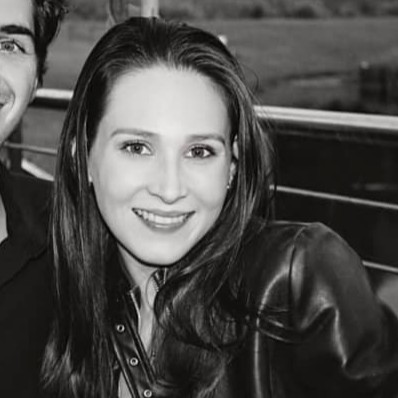
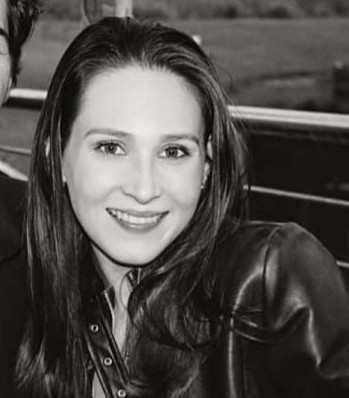
responsive

diff --git a/src/templates/timeline.js b/src/templates/timeline.js
@@ -5,6 +5,7 @@ export default class Timeline extends React.PureComponent {
   render() {
       return <div style={{display: "flex", justifyContent: "center"}}>
         <div class="container">
+          <h1 style={{marginBottom: '30px'}}>Education</h1>
           <div class="timeline">
             <div class="timeline-container">
               <div class="timeline-icon timeline-color">
@@ -12,22 +13,33 @@ export default class Timeline extends React.PureComponent {
               <div class="timeline-body">
                   <span class="badge timeline-color"><strong>BScHons Applied Mathematics (Cum Laude) 2020 </strong></span>
                   <h4>Stellenbosch University</h4>
-                  <p>My honours thesis was a study about techniques used for iris segmentation using Digital Image Processing.</p>
+                  <p>
+                    My honours thesis was a study about different techniques used for iris segmentation using Digital Image Processing.
+                    Various techniques were studied and compared in order to find the best algorithm for this problem.
+                    The different methods explored were Hough transform, Region Growing segmentation and Region Growing segmentation.
+                    Before one could apply these different segmentation algorithms, various preprocessing techniques were explored to
+                    ensure the most accurate result, which included Gaussian blur, edge detection methods and row and column sum operations.
+                  </p>
               </div>
             </div>
             <div class="timeline-container">
               <div class="timeline-icon timeline-color">
-                <i class="far fa-grin-hearts"></i>
               </div>
               <div class="timeline-body">
                 <span class="badge timeline-color"><strong>BSc Mathematical Sciences 2017-2019</strong></span>
                 <h4>Stellenbosch University</h4>
-                <p>BSc Mathematical Sciences in Applied Mathematics and Operations Research</p>
+                <p>
+                  I completed a Bachelor of Science in Mathematical Sciences, with a specialization in Applied Mathematics and Operations Research.
+                  This degree program provided me with a comprehensive education in mathematical theories, models, and techniques, and equipped me
+                  with the necessary skills to analyze and solve real-world problems in various industries. I took courses in areas such as
+                  linear algebra, calculus, numerical analysis, optimization techniques, probability and statistics.
+                  These courses helped me develop a solid foundation in mathematical concepts and methods, and provided me with hands-on
+                  experience in using mathematical tools to solve practical problems.
+                </p>
               </div>
             </div>
             <div class="timeline-container ">
               <div class="timeline-icon timeline-color">
-                <i class="far fa-grin-tears"></i>
               </div>
               <div class="timeline-body">
                 <span class="badge timeline-color"><strong>Matric 2016</strong></span>

diff --git a/src/templates/work.js b/src/templates/work.js
@@ -4,6 +4,7 @@ import "./work.css"
 export default class WorkExperience extends React.PureComponent {
   render() {
       return <div class="work">
+        <h1 class="work-heading">Work Experience</h1>
         <table>
           <tr>
             <td>04/2021-present</td>
@@ -16,7 +17,11 @@ export default class WorkExperience extends React.PureComponent {
               </ul>
 
               <div>
-                <span class="work-badge">Ruby</span><span class="work-badge">React Native</span><span class="work-badge">Python</span><span class="work-badge">SQL</span>
+                <span class="work-badge">Ruby</span>
+                <span class="work-badge">React Native</span>
+                <span class="work-badge">Python</span>
+                <span class="work-badge">SQL</span>
+                <span class="work-badge">Jekyll</span>
               </div>
             </td>
           </tr>
@@ -26,8 +31,9 @@ export default class WorkExperience extends React.PureComponent {
             <td><strong>Teacher’s Assistant</strong> <br></br>Stellenbosch University</td>
             <td>
               <p>
-                I was a teacher’s assistant for a second year Applied Mathematics module. This involved helping students understand
-                topics taught in the course and assisting in marking course material.
+              Assisted in teaching a second-year Applied Mathematics module. Helped students understand course
+              concepts and topics, through one-on-one support during study sessions. Assisted in marking coursework
+              and providing feedback to students, promoting their learning and development
               </p>
                 <span class="work-badge">Matlab</span>
             </td>

diff --git a/src/templates/aboveFold.js b/src/templates/aboveFold.js
@@ -6,19 +6,22 @@ export default class AboveFold extends React.PureComponent {
   render() {
       return <div class="aboveFold">
         <div class= "foldCol">
-          <h1 style={{marginBottom: "3%"}}>
+          <h1>
             Hi! I"m <span className= "primary">Jenna</span>,<br/>Front-End Web Developer
           </h1>
           <p>
             Graduated Cum Laude in <span className= "primary"><strong>Applied Mathematics</strong></span>.
-            I love all things, numbers, front-end development, computer vision and more!
+            I love all things, mathematics, front-end development, computer vision and more! I am a highly motivated and hardworking front-end
+            software developer with a strong background in applied mathematics. My passion for coding and problem-solving combined with my
+            mathematical knowledge allows me to approach software development in a unique and creative way. I am always looking for
+            new challenges to expand my skills and knowledge.
           </p>
           <div>
           <a href='https://github.com/jennaleeshearer' target={'_blank'} rel="noreferrer" class="links"><i class="fab fa-github"></i></a>
           <a href='https://www.linkedin.com/in/jenna-lee-shearer-7aba841b3/' target={'_blank'} rel="noreferrer" class="links"><i class="fab fa-linkedin"></i></a>
         </div>
         </div>
-        <div style={{width: "50%"}}>
+        <div>
           <img src={me} class="profilePic"/>
         </div>
       </div>

diff --git a/src/templates/work.css b/src/templates/work.css
@@ -4,26 +4,43 @@
   justify-content: center;
   margin-bottom: 30px;
   background-color: #efefef;
+  flex-direction: column;
+}
+
+.work-heading {
+  margin: 30px;
 }
 
 .work table {
   text-align: left;
+  margin-bottom: 30px;
 }
 
 .work  td {
-  padding: 30px;
+  padding: 10px;
   max-width: 700px;
 }
 
-.work ul, p {
+.work p {
   padding-bottom: 20px;
 }
 
 .work-badge {
   padding: 8px;
   margin-right: 10px;
+  margin-bottom: 0;
   border-radius: 5px;
   color: white;
   background: #3a3b49;
-  margin-top: 30px;
+  margin-top: 10px;
+  display: flex;
+  flex-wrap: wrap;
+  max-width: 108px;
+  justify-content: center;
+}
+
+@media screen and (max-width: 650px) {
+  .work  td {
+    padding: 0;
+  }
 }

diff --git a/src/templates/footer.js b/src/templates/footer.js
@@ -3,8 +3,12 @@ import "./footer.css"
 
 export default class Footer extends React.PureComponent {
   render() {
-      return <div className="footer primary">
-        Copyright © 2023 - Jenna-Lee Shearer
+      return <div className="footer primary" id="contact">
+        <h2 class="contact-us">Contact Me</h2>
+        <div class="contact-details"><a href="mailto:shearerjennalee@gmail.com" >shearerjennalee@gmail.com</a></div>
+        <div class="contact-details"><a href="tel:27 60 528 5542">+27 60 528 5542</a></div>
+        <div class="contact-details">Cape Town, South Africa</div>
+        <div class="copyright"><small>Copyright © 2023 - Jenna-Lee Shearer</small></div>
     </div>
   }
 }

diff --git a/src/templates/aboveFold.css b/src/templates/aboveFold.css
@@ -2,12 +2,12 @@
   display: flex;
   flex-direction: row ;
   align-items: center ;
-  height: 600px ;
+  height: 500px ;
 }
 
 .foldCol {
   margin: 5%;
-  width: 50% ;
+  width: 60% ;
   display: flex ;
   justify-content: center ;
   align-items: center ;
@@ -17,10 +17,22 @@
 
 .profilePic {
   width: 70%;
+  max-width: 350px;
+  border-radius: 10%;
 }
 
 .links {
   color: black;
   font-size: 30px;
   padding-left: 10px;
+}
+
+@media screen and (max-width: 650px) {
+  .profilePic {
+    display: none;
+  }
+
+  .foldCol {
+    width: 100%;
+  }
 }

diff --git a/src/templates/navbar.js b/src/templates/navbar.js
@@ -6,8 +6,7 @@ export default class CustomNavbar extends React.PureComponent {
       return <nav>
         <ul className="menu" style={{display: "flex"}}>
             <li className="logo"><a href="#"> &lt; / &gt;</a></li>
-            <li className="item"><a href="#">Home</a></li>
-            <li className="item"><a href="#">Contact</a></li>
+            <li className="item"><a href="#contact">Contact</a></li>
         </ul>
     </nav>
   }

diff --git a/src/templates/timeline.css b/src/templates/timeline.css
@@ -42,8 +42,21 @@
   padding: 8px;
   border-radius: 5px;
   color: white;
+  display: flex;
+  justify-content: center;
 }
 
 h4, p {
   margin-top: 20px;
+}
+
+@media screen and (max-width: 650px) {
+  .timeline:before, .timeline-icon {
+    display: none;
+  }
+
+  .timeline {
+    padding: 10px;
+  }
+
 }

diff --git a/src/App.js b/src/App.js
@@ -12,11 +12,8 @@ function App() {
 
       < AboveFold />
 
-
-      <h1 style={{marginBottom: '30px'}}>Work Experience</h1>
       < WorkExperience />
 
-      <h1 style={{marginBottom: '30px'}}>Education</h1>
       < Timeline />
 
       < Footer />

diff --git a/src/templates/footer.css b/src/templates/footer.css
@@ -7,3 +7,16 @@
   text-align: center;
   padding: 10px;
 }
+
+.contact-details {
+  margin: 0;
+  padding:5px;
+}
+
+.contact-us {
+  margin: 30px 0;
+}
+
+.copyright {
+  margin: 20px 0 10px 0;
+}
